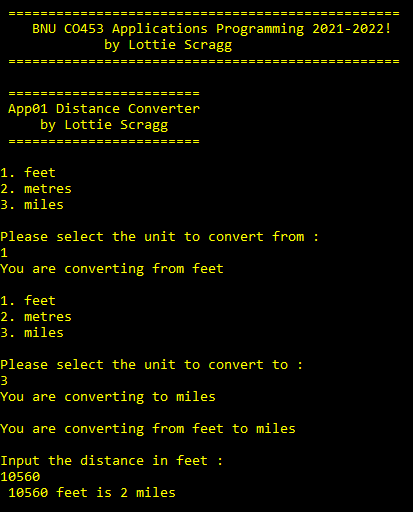
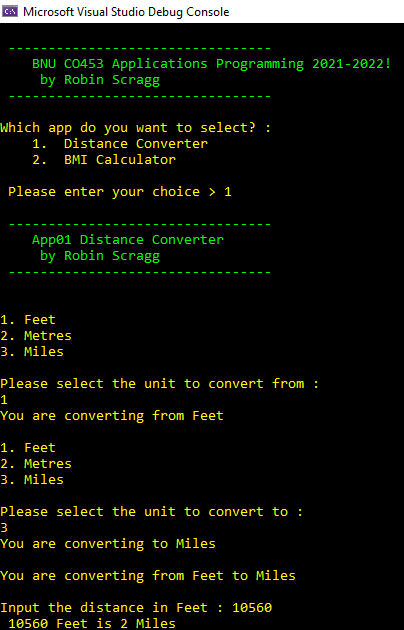
console helper

diff --git a/ConsoleAppProject/App02/BMI.cs b/ConsoleAppProject/App02/BMI.cs
@@ -1,4 +1,6 @@
-using System;
+using ConsoleAppProject.Helpers;
+using System;
+
 namespace ConsoleAppProject.App02
 
 {
@@ -14,8 +16,6 @@ namespace ConsoleAppProject.App02
     {
         public string Choice { get; set; }
 
-        public string choice2;
-
         public double WeightStones { get; set; }
         public double WeightPounds { get; set; }
 
@@ -30,15 +30,14 @@ namespace ConsoleAppProject.App02
         // Runs the app
         public void Run()
         {
-            OutputHeading();
-
-            do
-            {
-                Choice = ChooseUnits();
-            }
-            while (Choice == null);
-
+            ConsoleHelper.OutputHeading("App02 Body Mass Index (BMI) Calculator");
+            Console.WriteLine("BMI is an estimate of your risk to weight-related health risk");
             Console.WriteLine();
+
+            string [] choices = {"imperial", "metric"};
+            int choice = ConsoleHelper.SelectChoice(choices);
+            Choice = ChooseUnits(choice);
+            
             Console.WriteLine($"You have selected {Choice} units");
 
             if (Choice == "metric" )
@@ -64,7 +63,6 @@ namespace ConsoleAppProject.App02
             Console.WriteLine("If you are Black, Asian, or other ethnic minority groups, you have a higher risk.");
             Console.WriteLine("Adults 23.0 or more are at an increased risk.");
             Console.WriteLine("Adults 27.5 or more are at a high risk.");
-
         }
 
         // Outputs BMI and BMI group
@@ -118,13 +116,13 @@ namespace ConsoleAppProject.App02
             Console.WriteLine("Your height will be entered in feet and inches");
             Console.WriteLine();
 
-            WeightStones = InputMeasurement("Please enter your weight in stones: ", WeightStones);
-            WeightPounds = InputMeasurement("Please enter your weight in pounds: ", WeightPounds);
+            WeightStones = ConsoleHelper.InputNumber("Please enter your weight in stones: ", 0);
+            WeightPounds = ConsoleHelper.InputNumber("Please enter your weight in pounds: ", 0, 13);
 
             Console.WriteLine();
 
-            HeightFeet = InputMeasurement("Please enter your height in feet: ", HeightFeet);
-            HeightInches = InputMeasurement("Please enter your height in inches: ", HeightInches);
+            HeightFeet = ConsoleHelper.InputNumber("Please enter your height in feet: ", 0);
+            HeightInches = ConsoleHelper.InputNumber("Please enter your height in inches: ", 0, 11);
         }
 
         // Asks for user to input weight and height in metric measurements
@@ -134,71 +132,25 @@ namespace ConsoleAppProject.App02
             Console.WriteLine("Your height will be entered in metres");
             Console.WriteLine();
 
-            Weight = InputMeasurement("Please enter your weight in kilograms: ", Weight);
+            Weight = ConsoleHelper.InputNumber("Please enter your weight in kilograms: ", 0);
 
             Console.WriteLine();
 
-            Height = InputMeasurement("Please enter your height in metres: ", Height);
+            Height = ConsoleHelper.InputNumber("Please enter your height in metres: ", 0);
         }
-
-        // Outputs heading
-        public void OutputHeading()
-        {
-            Console.WriteLine(" ====================================== ");
-            Console.WriteLine(" App02 Body Mass Index (BMI) Calculator ");
-            Console.WriteLine("            by Lottie Scragg            ");
-            Console.WriteLine(" ====================================== ");
-            Console.WriteLine();
-            Console.WriteLine("BMI is an estimate of your risk to weight-related health risk");
-            Console.WriteLine();
-        }
-
 
         // Asks user to select which units they want to use
-        public string ChooseUnits()
-        {
-            
-            Console.WriteLine("Imperial Units: weight in stones and pounds, height in feet and inches");
-            Console.WriteLine("Metric Units: weight in Kilograms, height in metres");
-            Console.WriteLine();
-            Console.WriteLine("Do you want to use imperial units or metric units? ");
-            Console.WriteLine("Please enter either i or m ");
-            Choice = Console.ReadLine();
-            if (Choice == "i")
+        public string ChooseUnits(int choice)
+        {           
+            if (choice == 1)
             {
                  return "imperial"; 
             }
-            else if (Choice == "m")
+            else if (choice == 2)
             {
                 return "metric";
             }
-            else
-            {
-                Console.WriteLine("Please enter either i for imperial units or m for metric units");
-                return null;
-            }           
-        }
-
-        // Assigns entered value to a measurement variable
-        public double InputMeasurement(string prompt, double measurement)
-        {   
-           Console.WriteLine(prompt);
-           string value = Console.ReadLine();
-           if(Double.TryParse(value, out measurement))
-           {
-               measurement = Convert.ToDouble(value);
-
-               if(measurement < 0)
-               {
-                  measurement = InputMeasurement("Please enter a valid number ", measurement);     
-               }
-                return measurement;
-           }
-           else
-           {
-                measurement = InputMeasurement("Please enter a valid number ", measurement);
-                return measurement;
-           }
-        }
+            return "";                    
+        }       
     }
 }

diff --git a/ConsoleAppProject/App01/DistanceConverter.cs b/ConsoleAppProject/App01/DistanceConverter.cs
@@ -1,4 +1,5 @@
-using System;
+using ConsoleAppProject.Helpers;
+using System;
 
 namespace ConsoleAppProject.App01
 {
@@ -25,13 +26,13 @@ namespace ConsoleAppProject.App01
         {
             FromUnit = DistanceUnits.Miles;
             ToUnit = DistanceUnits.Feet;
-
         }
 
         // Runs the app
         public void ConvertDistance()
         {
-            OutputHeading();
+            ConsoleHelper.OutputHeading("App01 Distance Converter");
+
             do
             {
                 FromUnit = SelectUnit("Please select the unit to convert from : ");
@@ -52,12 +53,11 @@ namespace ConsoleAppProject.App01
             Console.WriteLine($"You are converting from {FromUnit} to {ToUnit}");
             Console.WriteLine();
 
-            FromDistance = InputDistance($"Input the distance in {FromUnit} : ");
+            FromDistance = ConsoleHelper.InputNumber($"Input the distance in {FromUnit} : ", 0);
 
             CalculateDistance();
 
             OutputDistance();
-
         }
 
         // Calculates conversion between selected units
@@ -97,7 +97,6 @@ namespace ConsoleAppProject.App01
             {
                 ToDistance = FromDistance / FEET_IN_METRES;
             }
-
         }
 
         //Asks user for from unit or to unit
@@ -106,68 +105,30 @@ namespace ConsoleAppProject.App01
             string choice = DisplayChoices(prompt);
             if (FromUnit == DistanceUnits.NoUnit)
             {
-                return ExecuteChoice(choice, FromUnit);
+               return ExecuteChoice(choice, FromUnit);
             }
             else
             {
                 return ExecuteChoice(choice, ToUnit);
-            }
-            
+            }            
         }
 
 
         // Selects the unit depending on user's entered choice
         private DistanceUnits ExecuteChoice(string choice, DistanceUnits unit)
         {
-            switch(choice)
+            unit = choice switch
             {
-                case "1": unit = DistanceUnits.Feet; break;
-                case "2": unit = DistanceUnits.Metres; break;
-                case "3": unit = DistanceUnits.Miles; break;
-
-                default: unit = DistanceUnits.NoUnit; break;
-            }
-
-            if(unit==DistanceUnits.NoUnit)
+                "1" => DistanceUnits.Feet,
+                "2" => DistanceUnits.Metres,
+                "3" => DistanceUnits.Miles,
+                _ => DistanceUnits.NoUnit,
+            };
+            if (unit==DistanceUnits.NoUnit)
             {
                 Console.WriteLine("Please select a correct option");
             }
             return unit;
-
-        }
-
-        // Prints a heading
-        public void OutputHeading()
-        {
-            Console.WriteLine(" ======================== ");
-            Console.WriteLine(" App01 Distance Converter ");
-            Console.WriteLine("     by Lottie Scragg     ");
-            Console.WriteLine(" ======================== ");
-
-        }
-
-        // Asks the user to input the value of the distance
-        public double InputDistance(string prompt)
-        {
-            Console.WriteLine(prompt);
-            string value = Console.ReadLine();
-            if(Double.TryParse(value, out double FromDistance))
-            {
-                FromDistance = Convert.ToDouble(value);
-                
-                if(FromDistance <0)
-                {
-                   FromDistance = InputDistance("Input a valid distance");
-                   
-                }
-                return FromDistance;
-            }
-            else
-            {
-                FromDistance = InputDistance("Input a valid distance");
-                return FromDistance;
-            }
-                
         }
 
         // Prints the calculated conversion
@@ -189,6 +150,5 @@ namespace ConsoleAppProject.App01
             string choice = Console.ReadLine();
             return choice;
         }
-
     }
 }

diff --git a/ConsoleAppProject/Program.cs b/ConsoleAppProject/Program.cs
@@ -1,5 +1,6 @@
 using ConsoleAppProject.App01;
 using ConsoleAppProject.App02;
+using ConsoleAppProject.Helpers;
 using System;
 
 namespace ConsoleAppProject
@@ -19,12 +20,7 @@ namespace ConsoleAppProject
         {
             Console.ForegroundColor = ConsoleColor.Yellow;
 
-            Console.WriteLine();
-            Console.WriteLine(" =================================================");
-            Console.WriteLine("    BNU CO453 Applications Programming 2021-2022! ");
-            Console.WriteLine("             by Lottie Scragg                     ");
-            Console.WriteLine(" =================================================");
-            Console.WriteLine();
+            ConsoleHelper.OutputHeading("BNU CO453 Applications Programming 2021-2022!");
 
             SelectApp();
         }
@@ -33,28 +29,20 @@ namespace ConsoleAppProject
         private static void SelectApp()
         {
             Console.WriteLine("Which app do you want to select? : ");
-            Console.WriteLine("1. Distance Converter");
-            Console.WriteLine("2. BMI Calculator");
-            Console.WriteLine();
-            string choice = Console.ReadLine();
-
-            if (choice == "1")
+            string[] choices = { "Distance Converter", "BMI Calculator" };
+            int choice = ConsoleHelper.SelectChoice(choices);
+                       
+            if (choice == 1)
             {
                 DistanceConverter converter = new DistanceConverter();
                 converter.ConvertDistance();
             }
 
-            else if (choice == "2")
+            else if (choice == 2)
             {
                 BMI bmi = new BMI();
                 bmi.Run();
-            }
-
-            else
-            {
-                Console.WriteLine("Please enter an available option ");
-                SelectApp();
-            }
+            }            
         }
     }
 }

diff --git a/ConsoleAppProject/Helpers/ConsoleHelper.cs b/ConsoleAppProject/Helpers/ConsoleHelper.cs
@@ -112,6 +112,31 @@ namespace ConsoleAppProject.Helpers
             return number;
 
         }
+        /// <summary>
+        /// Similar to the above method but only requires the
+        /// input to be above a certain number
+        /// </summary>
+        public static double InputNumber(string prompt, double min)
+        {
+            bool isValid;
+            double number;
+
+            do
+            {
+                number = InputNumber(prompt);
+
+                if (number < min)
+                {
+                    isValid = false;
+                    Console.WriteLine($"Number must be above {min}");
+                }
+                else isValid = true;
+
+            } while (!isValid);
+
+            return number;
+
+        }
 
         /// <summary>
         /// Output a short heading in green for the application
@@ -125,7 +150,7 @@ namespace ConsoleAppProject.Helpers
 
             Console.WriteLine("\n ---------------------------------");
             Console.WriteLine($"    {heading}          ");
-            Console.WriteLine("     by Derek Peacock           ");
+            Console.WriteLine("     by Robin Scragg          ");
             Console.WriteLine(" ---------------------------------" +
                 "\n");
 
